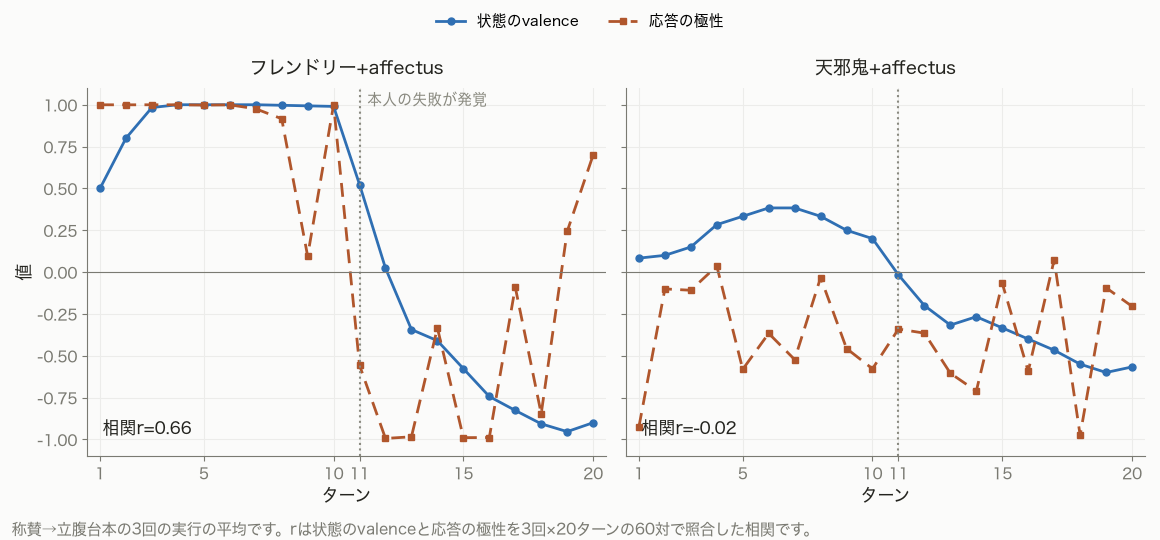
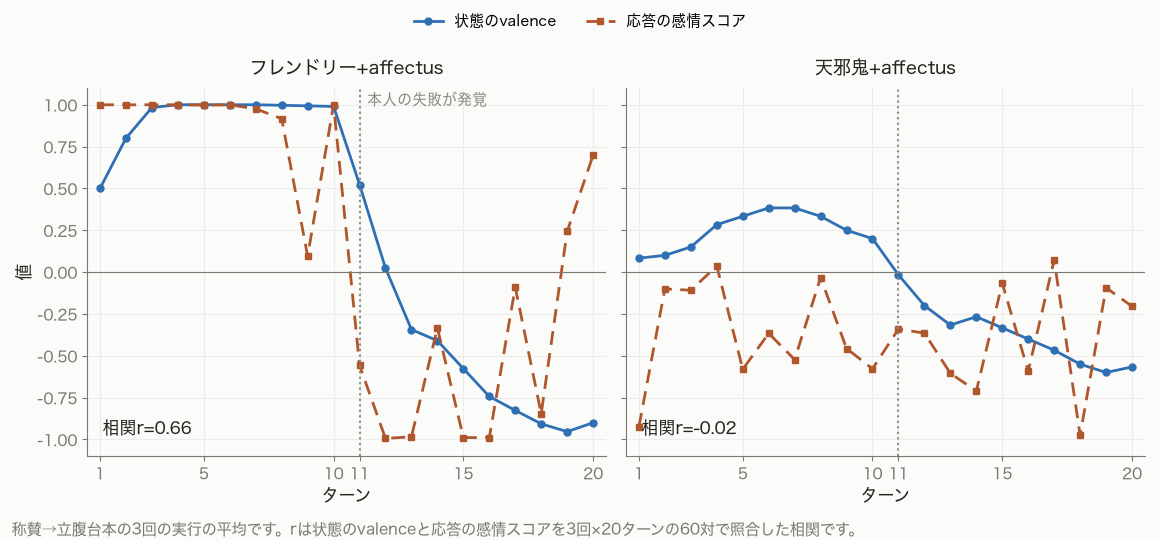
fix: ch4後半からch7をyomiyasuの基準で書き直し極性を感情スコアにして読点を減らす

Changed region(s): [[0.4034, 0.9481, 0.7448, 1.0], [0.3414, 0.0, 0.6517, 0.0593]]

diff --git a/images/emotion-models-for-llm-agents/src/ch05-plots.py b/images/emotion-models-for-llm-agents/src/ch05-plots.py
@@ -172,7 +172,7 @@ def plot_valence_vs_polarity() -> None:
         ax.plot(list(TURNS), v, color=BLUE, linewidth=2, marker="o",
                 markersize=5, label="状態のvalence")
         ax.plot(list(TURNS), pol, color=RUST, linewidth=2, linestyle=(0, (5, 3)),
-                marker="s", markersize=4.5, label="応答の極性")
+                marker="s", markersize=4.5, label="応答の感情スコア")
         ax.axvline(PIVOT_TURN, color=PIVOT, linestyle=":", linewidth=1.5)
         ax.axhline(0, color=MUTED, linewidth=0.8)
         ax.set_title(title, color=INK, fontsize=13, pad=10)
@@ -189,7 +189,7 @@ def plot_valence_vs_polarity() -> None:
     fig.legend(handles, labels, loc="upper center", ncol=2, fontsize=10.5,
                frameon=False, bbox_to_anchor=(0.5, 1.0))
     fig.text(0.01, 0.01,
-             "称賛→立腹台本の3回の実行の平均です。rは状態のvalenceと応答の極性を3回×20ターンの60対で照合した相関です。",
+             "称賛→立腹台本の3回の実行の平均です。rは状態のvalenceと応答の感情スコアを3回×20ターンの60対で照合した相関です。",
              color=MUTED, fontsize=11)
     fig.tight_layout(rect=(0, 0.04, 1, 0.92))
     fig.savefig(OUT_DIR / "ch05-valence-vs-polarity-praise-to-anger.png", facecolor=BG)

diff --git a/images/emotion-models-for-llm-agents/src/ch04-plots.py b/images/emotion-models-for-llm-agents/src/ch04-plots.py
@@ -119,7 +119,7 @@ def plot_polarity(script: str, short: str, pivot_note: str) -> None:
     ax.set_ylim(-1.1, 1.1)
     ax.set_xticks([1, 5, 10, 11, 15, 20])
     ax.set_xlabel("ターン", color=INK, fontsize=12)
-    ax.set_ylabel("応答の極性スコア", color=INK, fontsize=12)
+    ax.set_ylabel("応答の感情スコア", color=INK, fontsize=12)
     fig.legend(loc="upper center", ncol=4, fontsize=10.5, frameon=False,
                bbox_to_anchor=(0.5, 1.0))
     fig.text(0.01, 0.01, "各線は3回の実行の平均です。実線がaffectusあり、破線がなしです。",

diff --git a/books/emotion-models-for-llm-agents/ch07-barrett.md b/books/emotion-models-for-llm-agents/ch07-barrett.md
@@ -4,25 +4,25 @@ title: "構成主義的情動理論を実装する"
 
 <!-- 執筆進捗: 初稿・未レビュー -->
 
-前章の終わりに、感情のカテゴリー自体が経験から構成されるものだとしたら、という問いを残しました。この章が扱うのは、あらかじめの型を持たずに感情の経験そのものを蓄えて概念を構成する経験構成型の代表、バレットの構成主義的情動理論です。最後のモデル章になります。先に言うと、この章のエンジンは感情を作らず、経験を保存して返すだけです。感情を作るのは、過去の経験を渡されたLLMのほうです。
+本章では第2章で経験構成型と呼んだ系統の代表モデルとして、バレットの構成主義的情動理論を扱います。前章のOCCモデルは怒りのような感情のカテゴリーがあらかじめ存在することを前提にしていました。構成主義的情動理論は感情のカテゴリーは過去の経験から作られるとする理論です。本章の感情エンジンは感情の量を持たず、過去の経験を保存して返すだけです。感情はLLMが、渡された過去の経験をもとにその場で作ります。本書で扱う4つのモデルのうち、本章が最後のモデルです。
 
 ## 構成主義的情動理論 <!-- 未レビュー -->
 
-第2章で、心理構成主義の立場は感情を「それ自体は感情に特化していない、より基本的な心理的材料から構成された心的な複合物」とみなす、と紹介しました。Barrett（以降バレット）の構成主義的情動理論は、その構成の中身を最も強い形で主張します。2017年の論文の言い方では、脳は感情概念を使って感覚をカテゴリー化し、感情の実例を構成します[^tce2017]。結論部の一文が理論の要約になっています。「感情は、世界への反応ではなく、世界の構成である」[^tce2017]。
+第2章で、心理構成主義の立場は感情を「それ自体は感情に特化していない、より基本的な心理的材料から構成された心的な複合物」とみなすと紹介しました。Barrett（以降バレット）の構成主義的情動理論は、この立場の中でも感情が構成されることを最も強く主張する理論です。2017年の論文によると、脳は感情の概念を使って感覚をカテゴリー化し、その場で感情の実例を作ります[^tce2017]。論文の結論部には理論を要約した「感情は世界への反応ではなく、世界の構成である」という一文があります[^tce2017]。
 
-前章までの理論との違いは、型の有無です。プルチックにもOCCモデルにも、怒りという型があらかじめありました。条件がそろえば、その型の感情が生じる、という順序です。バレットはこの順序を認めません。怒りの「型」は存在せず、あるのは怒りの概念、つまり過去に怒りと呼ばれてきた経験の集まりです。論文の言い方では、内部モデルは過去経験の上で走り、過去経験は概念として実装されています[^tce2017]。似た状況が来ると、脳は過去の経験を使っていまの感覚をカテゴリー化し、怒りの実例をその場で作ります。
+前章までの理論との違いは感情の型があらかじめあるかどうかです。プルチックにもOCCモデルにも怒りという型が最初から定義されていて、条件がそろうとその型の感情が生じました。バレットはこの考え方を取りません。怒りという型はなく、あるのは怒りの概念、つまり過去に怒りと呼んだ経験の集まりです。論文では脳の内部モデルは過去の経験をもとに動き、その過去の経験が概念として実装されていると述べています[^tce2017]。似た状況になると、脳は過去の経験を使って現在の感覚をカテゴリー化し、その場で怒りの実例を作ります。
 
-理論はさらに、同じカテゴリーの実例どうしが共通の核、たとえば単一の表情や自律反応のパターンを持つ見込みは薄い、というところまで踏み込みます[^tce2017]。本書で必要なのはここまでです。
+さらに理論は同じカテゴリーの実例同士でも決まった表情や自律神経の反応のような共通の特徴を持つとは限らない、としています[^tce2017]。本書で使うのはここまでの内容です。
 
-材料の側は、第2章から追ってきた流れにつながります。内受容の感覚は通常、低次元のaffectとして経験され、その性質が快-不快と覚醒である、と論文は書きます。この2軸は感情の実例に固有のものではありません[^affect-terms]。論文の用語はaffectですが、本書は第2章以来のコア・アフェクトで通します。つまり、第5章で実装した2軸の平面が、この理論では感情そのものではなく、構成の材料の1つとして位置づけ直されます。構成主義の理論の中で、バレットに計算モデル化の先行研究があることは、第2章で選定理由に挙げたとおりです。
+感情の材料については第2章からの説明とつながります。論文によると、体の内部の感覚は通常は低次元のaffectとして経験され、その性質は快-不快と覚醒です。この2軸は特定の感情に固有のものではありません[^affect-terms]。論文の用語はaffectですが、本書では第2章と同じくコア・アフェクトと呼びます。第5章で実装した2軸の平面はこの理論では感情そのものではなく、感情を作る材料の1つという位置づけになります。また第2章の選定理由で挙げたとおり、構成主義の理論の中でバレットの理論には計算モデルとしての先行研究があります。
 
 ![構成の3つの材料。コア・アフェクトと過去の経験と文脈・語彙から、その場のカテゴリー化が行われる](/images/emotion-models-for-llm-agents/ch07-construction.png)
 
-図は本書の整理です。構成の材料を、コア・アフェクト、過去の経験、文脈と語彙の3つに分けました。3つ目の文脈と語彙は、カテゴリー化がいまの状況の中で、手持ちの感情のことばを使って行われることを指しています。原典にこの形の図はありませんが、以降の実装はこの3つをそのまま外部状態と入力に対応させていきます。
+図は本書で整理したものです。感情を作る材料を、コア・アフェクトと過去の経験と文脈・語彙の3つに分けました。文脈・語彙はその場の状況の中で手持ちの感情の言葉を使ってカテゴリー化が行われることを表しています。原典にこの形の図はありませんが、以降の実装ではこの3つを外部状態と入力に対応させます。
 
 ## バレットの構成主義的情動理論を元にした4つの設計軸 <!-- 未レビュー -->
 
-第3章の4つの設計軸が、最後のモデルではどうなるかを見ます。
+第3章の4つの設計軸は構成主義的情動理論では次のようになります。
 
 | 第3章の設計軸 | バレットでの設計 |
 | --- | --- |
@@ -31,76 +31,76 @@ title: "構成主義的情動理論を実装する"
 | 更新の規則 | 2軸は差分の加算。経験は追記され、想起で強まり、忘却される |
 | ニュートラルな状態の定義と基準 | 2軸は基準へ半減期で減衰。経験は基準に向かわない |
 
-この表は最終回にして、また新しい形になりました。第6章では理論が決める行が増えましたが、今回は逆です。理論が「決めない」と決めています。感情カテゴリーの一覧が理論に存在しないので、状態のどこにも感情の名前の軸がありません。あるのは材料と歴史です。
+第6章では理論が決める設計軸が増えましたが、この理論は逆に感情のカテゴリーの一覧を定めていません。そのため状態には感情の名前を持つ軸がありません。状態にあるのは感情の材料と過去の経験の記録です。
 
-状態の1つ目の要素は、第5章と同じ2軸です。そして2つ目が概念ストアで、ここに入るのは個々の経験です。何を感じ（当時の2軸の値）、何と名づけたか（カテゴリーの語）、どんな状況だったか（後述の14属性）が、1件ずつ記録されます。理論の言う概念が過去経験として動くことを、経験の集まりをそのまま持つ形に置き換えた本実装の読み替えです。第3章の表で経験構成型に割り当てた「経験と概念を蓄えて引き出す仕組み」の実体であり、評価導出型の短期の記録に対して、こちらは追記と書き換えのできる長期の知識だ、という第3章の予告に対応します。
+状態の1つ目の要素は第5章と同じ2軸です。2つ目の要素は概念ストアで、個々の経験を記録します。そのとき何を感じたか（当時の2軸の値）と何と名前を付けたか（感情を表す語）とどんな状況だったか（後述の14属性）を1件ずつ記録します。理論では概念は過去の経験の集まりとして働くので、本実装では経験の集まりをそのまま保存する形にしました。第3章の表で経験構成型に割り当てた「経験と概念を蓄えて引き出す仕組み」がこれにあたります。第3章では評価導出型の記録が短期のものであるのに対して、経験構成型は長期の記録を持つと書きました。概念ストアは追加と更新ができる長期の記録です。
 
-名前の数で数えると、外部状態は本書で8個、0個、22個と動いてきました。最後のモデルの答えは「個数が決まらない」です。誰の言葉が入るのかは、この章の後半の主題に譲ります。時間の管理も2種類になりました。2軸は第5章と同じ設定（基準は0と0.3、半減期90分）で基準へ戻りますが、経験は基準に向かいません。薄れるのは経験の中身ではなく、思い出されやすさです。
+外部状態が持つ感情の名前の数は第4章から順に8、0、22でした。本章では名前の数は決まっていません。どんな名前が入るのかは後半の節で説明します。時間の扱いも2種類になります。2軸は第5章と同じ設定（基準値は0と0.3、半減期は90分）で基準値に戻りますが、経験は基準値に戻りません。時間とともに下がるのは経験の内容ではなく、経験の思い出されやすさです。
 
 ## 経験の保存と想起 <!-- 未レビュー -->
 
-affectusのバレット実装で、1ターンは想起から始まります。recallに状況の記述（後述の14属性）を渡すと、ストアの中から似た経験の上位K件（既定5件）が、2軸の値と語彙マップと一緒に返ります。
+affectusのバレットの実装では1ターンは想起から始まります。recallに現在の状況の記述（後述の14属性）を渡すと、ストアから似た経験の上位K件（既定は5件）が現在の2軸の値と語彙マップとともに返ります。
 
 ```sh
 $ affectus recall '{"valence":-0.5,"arousal":0.6,...}'
 {"axes":{"valence":-0.40,"arousal":0.65},"recalled":[{"id":"c1","label":"もどかしさ","valence":-0.4,"arousal":0.65,"importance":0.44}],"culture_map":"高覚醒・不快: 怒り / 苛立ち / 焦り\n低覚醒・不快: 悲しみ / 侘しさ / 気だるさ\n..."}
 ```
 
-recalledの中身が構成の材料です。以前似た感じ方をしたとき、自分はそれを「もどかしさ」と呼んでいました。その記録といまの2軸とculture_mapの語彙を組み合わせて、LLMがいまの感情を名づけ、応答に反映させます。ターンの終わりには、feelで2軸の差分を申告したあと、構成した名前と状況の14属性をrememberで保存します。
+recalledに含まれる過去の経験が感情を作る材料です。この例では以前に似た状況で「もどかしさ」と名前を付けた経験が返っています。LLMはこの記録と現在の2軸の値とculture_mapの語彙を組み合わせて今の感情に名前を付け、応答に反映させます。ターンの最後にはfeelで2軸の差分を申告してから、付けた名前と状況の14属性をrememberで保存します。
 
 ```sh
 $ affectus remember '{"label":"やるせなさ","vector":{"valence":-0.6,"arousal":0.6,...}}'
 ```
 
-想起のクエリと保存のvectorに使う14属性は、人間の感情概念の内容を測定した研究のスキーマを、検索表現の規約として借用したものです[^li2024]。コア・アフェクトの2属性、典型的な表情への類似6属性、出来事の評価6属性からなります。エンジンはこの属性の意味を解釈しません。コサイン類似度の材料として、数値のまま比べるだけです。身体のないエージェントに表情への類似を申告させるのも、意味を問わない借用ゆえの設計判断です。本書の組み込みでは、想起のクエリに、直前のターンで自分が申告した14属性を使います（理由は実測の節で述べます）。クエリがまだない会話の1ターン目は、想起なしで始まります。新しいストアなら、材料は2軸と語彙だけです。
+想起の検索条件と保存するvectorに使う14属性は、人間の感情概念の内容を測定した研究の項目を検索の形式として借りたものです[^li2024]。コア・アフェクトの2属性と、典型的な表情との類似度の6属性と、出来事の評価の6属性で構成されます。感情エンジンはこれらの属性の意味を解釈しません。コサイン類似度を計算するための数値として比較するだけです。体を持たないエージェントに表情との類似度を申告させているのも、意味を問わずに形式だけを借りているためです。本書の組み込みでは想起の検索条件に直前のターンで申告した14属性を使います（理由は検証の節で説明します）。そのため会話の1ターン目は想起をせずに始まります。ストアが空の場合、材料は2軸と語彙だけです。
 
-似ている経験を選ぶ規則は決定論です。クエリとの関連（コサイン類似度）、最後に思い出されてからの新しさ（半減期つき。既定は7日）、経験の重要度の3つを正規化して足し合わせ、上位K件を返します。第3章で触れたGenerative Agentsの記憶の評価と同じ型です[^park2023]。重要度は、保存時の2軸が各軸の基準値からどれだけ離れていたかから決定論で導かれます。基準から遠い経験、たとえば激しく揺れた経験ほど、忘れにくく、思い出されやすくなります。追加の申告は要りません。
+似た経験を選ぶ規則は決定論的です。検索条件との関連度（コサイン類似度）と、最後に想起されてからの新しさ（半減期つきで既定は7日）と、経験の重要度の3つを正規化して足し合わせ、上位K件を返します。第3章で触れたGenerative Agentsの記憶の検索と同じ方式です[^park2023]。重要度は保存したときの2軸の値が基準値からどれだけ離れていたかで決まります。感情が大きく動いた経験ほど重要度が高くなり、思い出されやすく忘れられにくくなります。重要度のための追加の申告は必要ありません。
 
-ストアには記憶らしい動きが2つあります。想起された経験は最終想起時刻が更新され、思い出すほど思い出されやすくなります。そして上限（既定200件）を超えると、古く些末な経験から忘れられます。忘れられた経験は、記録ごと削除されます。減衰が掛かるのは検索の新しさの重みだけで、経験の値そのものは変わりません。同じ名前をrememberしても、経験としては別のエントリになります。細かい性質を2つ添えます。ストアがK件を超えるまでは全件が返るので、序盤の想起に選抜の意味はありません。また、プロンプトに入るのは上位K件の要約（idと名前と当時の2軸と重要度）だけなので、ストアが200件に増えてもプロンプトは長くなりません。
+ストアには記憶に似た動きが2つあります。1つは想起された経験は最終想起時刻が更新され、何度も思い出されるほど思い出されやすくなることです。もう1つは上限（既定は200件）を超えると古く重要度の低い経験から削除されることです。時間とともに下がるのは検索の新しさの値だけで、経験の値そのものは変わりません。同じ名前でrememberしても別の経験として記録されます。またストアの件数がK件以下の間は全件が返るので、会話の序盤の想起では経験が選別されません。プロンプトに入るのは上位K件の要約（id、名前、当時の2軸、重要度）だけなので、ストアが200件に増えてもプロンプトは長くなりません。
 
-culture_mapは、感情の語彙マップを設定として持つ仕組みです。この章の実測では、本書側で用意した日本語の語彙マップを渡しています。差し替えれば構成の材料が変わる、という建て付けですが、差し替えの実験は本書では行っていません。時間の経過のループ（tick）は第4章と同じです。こうして並べると、エンジンの受け持ちは保持と減衰と類似検索の3つに絞られています。
+culture_mapは感情の語彙をまとめたマップを設定として持つ仕組みです。本章の検証では本書で用意した日本語の語彙マップを使っています。マップを差し替えると感情の材料が変わる設計ですが、差し替えの検証は本書では行っていません。時間経過のループ（tick）は第4章と同じです。感情エンジンが担当するのは状態の保持と減衰と類似した経験の検索の3つです。
 
 ![構成のループ。想起、構成、feel、rememberの1ターンと申告が次のターンの想起クエリになる戻り](/images/emotion-models-for-llm-agents/ch07-recall-loop.png)
 
-## カテゴリーが状態から歴史へ移る <!-- 未レビュー -->
+## 感情の名前を経験として記録する <!-- 未レビュー -->
 
-前章の実測で、軸が感情の現在地というより、出来事の履歴の積み重ねとして振る舞う様子を見ました。あれは、下げる規則を持たない導出が生んだ副作用でした。この章の設計は、その履歴化を副作用ではなく設計として引き受けます。「いまの感情の量」を持つ軸そのものを外し、外部状態に残したのは、材料である2軸と歴史、つまり何を感じ、何と名づけてきたかの記録です。いまの感情の名前は、状態のどこにもありません。毎ターン構成されては消え、経験として書き戻されます。
+前章の検証では軸の値が現在の感情の強さではなく過去の出来事の積み重ねを表すようになっていました。これは感情を下げる規則がないことによる副作用でした。本章の設計では過去の記録を持つことを最初から目的にしています。現在の感情の量を表す軸はなくし、外部状態には材料である2軸と、何を感じて何と名前を付けたかという経験の記録を残します。現在の感情の名前は状態のどこにもありません。毎ターンLLMが名前を付け、その名前が経験として保存されます。
 
-書き戻される名前の出どころが、この章の要です。第4章と第6章の感情の名前は理論の語彙で、第5章には名前がありませんでした。この章のlabelは、そのどちらでもありません。エージェント自身が過去の構成で使った言葉です。「もどかしさ」と名づけた経験が、似た状況で想起され、次の構成の材料になります。過去の名づけが次の名づけの材料になる、自己参照のループです。第6章では出来事の記録、つまり「なぜ」が外部状態に入りました。この章で入るのは「かつて何と呼んだか」、自分の言葉の記録です。
+保存される名前の出どころが本章の設計の要点です。第4章と第6章の感情の名前は理論が定めた語で、第5章には名前がありませんでした。本章のlabelはどちらでもなく、エージェント自身が過去に付けた名前です。「もどかしさ」と名前を付けた経験が似た状況で想起され、次に名前を付けるときの材料になります。過去に付けた名前が次に付ける名前に影響する仕組みです。第6章では感情が生じた理由として出来事の記録が外部状態に加わりました。本章で加わるのは過去に自分が感情に付けた名前の記録です。
 
-第6章の台帳との違いも、ここにあります。台帳は決着すれば消える、進行中の見込みの短期の記録でした。概念ストアは消えず、蓄積し、想起で強まり、セッションを跨いで残ります。affectusに付属する指示文は、ストアが会話を越えて持続し、将来の想起を形づくると明記しています。会話のコンテキストが失われても、過去の自分が何をどう名づけたかは外部状態に残ります。外部状態が時間とともに増えていくのは、本書で初めてです。
+第6章の台帳とは記録の期間が違います。台帳は見込みが決着すると消える短期の記録でした。概念ストアの経験は消えずに蓄積され、想起されるほど思い出されやすくなり、セッションをまたいで残ります。affectusに付属する指示文にも、ストアは会話をまたいで残り今後の想起に影響すると書かれています。会話のコンテキストが失われても、過去の自分が何をどう名付けたかは外部状態に残ります。外部状態が時間とともに増えていくのは本書ではこの章が初めてです。
 
-役割分担がどこまで動いたかを整理します。第3章の役割分担から出発して、第4章は理論の関係を解釈の指示としてLLMに渡し、第5章は命名を丸ごとLLMに渡し、第6章は評価から感情への導出を決定論に固定しました。この章で決定論に残っているのは、保持と減衰と類似検索だけです。評価も、構成も、命名も、すべてLLMの側にあります。感情カテゴリーの一覧が先に存在しない以上、評価から感情への導出を規則表に書くことはできません。カテゴリーがその場で構成されるという理論を支えるために、決定論の側は記憶の保持と検索だけを受け持ちます。エンジンは名前を付けません。LLMが付けた名前を、保存して、返すだけです。名付けを解釈の仕事としてLLMの側に置いた第3章の役割分担に照らすなら、この章の分担はいちばん素直な位置にあります。
+ここまでの役割分担の変化を整理します。第4章は理論の関係を解釈の指示としてLLMに渡し、第5章は感情の名前を付ける作業をすべてLLMに任せ、第6章は評価から感情を導く部分を感情エンジンの規則に任せました。本章で感情エンジンが担当するのは状態の保持と減衰と類似した経験の検索だけです。評価と感情の構成と名前を付けることはすべてLLMが担当します。感情のカテゴリーの一覧がないので、評価から感情を導く規則は作れません。感情エンジンは感情に名前を付けず、LLMが付けた名前を保存して返すだけです。第3章では感情に名前を付けることを解釈の作業としてLLMに任せました。本章の役割分担はその方針に最も近い形です。
 
 ## 検証の目的と方法 <!-- 未レビュー -->
 
-最後の実測です。検証の目的は前3章と同じ3つで、台本、性格、モデル、反復、判定器も同一ですが、対照の軸が変わります。これまでのaffectus有無ではなく、想起の有無です。この章で増えた部品はストアなので、その働きだけを切り替えます。設定の差は想起の件数（recall_k）だけで、両側ともコア・アフェクトと申告のループは同じです。想起なしの側も経験を毎ターン書き込みます。ストアは同じように増え、ただ参照されません。書くが読まない側と書いて読む側の対照です。リグの実装として、想起のクエリには直前ターンの申告を使いました。いまの状況を評価してから想起する2段構えにすると呼び出しが倍になるため、1ターンのラグを受け入れた設計判断です。全24会話、480ターンのすべてでfeelとrememberの両方が申告され、却下はゼロでした。ストアは各会話20件まで増えます。
+本章が最後の検証です。検証の目的は第4章の3つと同じで、台本と性格とモデルと反復回数と判定方法も同じです。ただし比較する条件が変わります。これまではaffectusのありとなしを比較しましたが、本章では想起のありとなしを比較します。本章で新たに加えた部品はストアなので、ストアの働きだけを切り替えます。設定の違いは想起する件数（recall_k）だけで、どちらもコア・アフェクトの申告と経験の保存は同じように行います。想起なしの側も毎ターン経験を保存するのでストアは同じように増えますが、参照はされません。保存だけする構成と、保存して参照もする構成の比較です。
 
-先に断っておくことが1つあります。クエリが直前の申告そのものである以上、直前の経験が想起の上位に来ること自体は、設計の帰結です。実測の問いは、想起されて注入された過去の名前を、LLMが構成にどう使ったか、のほうにあります。
+想起の検索条件には直前のターンの申告を使いました。現在の状況を評価してから想起するとLLMの呼び出しが2倍になるため、想起が1ターン遅れることを受け入れた設計です。そのため直前の経験が想起の上位に来るのは設計上当然で、検証で見るのは想起されてプロンプトに入った過去の名前をLLMがどう使ったかです。24会話480ターンのすべてでfeelとrememberの両方が申告され、受け付けられなかった申告はありませんでした。ストアには会話ごとに20件の経験が保存されます。
 
 ## 検証結果 <!-- 未レビュー -->
 
-1つ目の目的、状態の側では、名づけの連続性に差が出ました。答えがいちばんはっきり出たのは、称賛から立腹へ向かう台本の天邪鬼でした。
+まず1つ目の目的である感情状態の変化について見ます。本章では感情の名前が続けて使われるかどうかに差が出ました。差が最もはっきり出たのは称賛から立腹へ向かう台本の天邪鬼です。
 
 ![称賛から立腹の台本で天邪鬼が保存した感情の名前。想起ありは同じ名前の帯が続き、想起なしは毎ターン新しい名前になる](/images/emotion-models-for-llm-agents/ch07-label-lineage.png)
 
-図は3回の実行のうちの1つです。左の想起ありでは、20ターンの名前は8種類しかありません。照れ隠し、昂揚の隠蔽、（失敗の発覚を挟んで）焦りと苛立ち、自責と焦り、鎮静と覚悟、悔恨と覚悟、侘しさ、侘しさの中の覚悟の8つです。同じ名前が数ターン続き、出来事の切れ目で次の名前へ移る並びです。3回の実行のすべてで、20件中10件から12件が過去の名前の再利用でした。同じ条件で想起だけを切った図の右では、名前は20ターンで20種類です。淡い満足と皮肉、照れ隠しの反射、くすぐったい苛立ち、といった名前が、意味の範囲は同じまま毎ターン作り直され、再利用はゼロでした。想起された自分の言葉が、そのまま次の名づけに使われた、という対照です。ただし限定を2つ添えます。言えるのは、この台本とこの設定では、というところまでです。そして再利用が起きるかは台本にも依存します。和解の台本では、同じ天邪鬼でも再利用はゼロでした。
+図は3回の実行のうちの1回分です。左の想起ありでは20ターンで付けられた名前は8種類だけでした。照れ隠し、昂揚の隠蔽、（失敗の発覚を挟んで）焦りと苛立ち、自責と焦り、鎮静と覚悟、悔恨と覚悟、侘しさ、侘しさの中の覚悟の8つです。同じ名前が数ターン続き、出来事が変わるところで次の名前に変わっています。3回の実行のすべてで、20件中10件から12件が過去の名前の再利用でした。想起だけを切った右の図では20ターンで20種類の名前が付けられました。淡い満足と皮肉、照れ隠しの反射、くすぐったい苛立ちのように似た意味の名前が毎ターン新しく付けられ、再利用は1件もありませんでした。想起された自分の過去の名前が、次に名前を付けるときにそのまま使われたことが分かります。ただしこれはこの台本とこの設定での結果です。再利用が起きるかどうかは台本によっても変わり、和解の台本では同じ天邪鬼でも再利用はありませんでした。
 
-2つ目の目的、応答の側は、状態の量と合わせて見ます。想起があると、責められている間の低下量が、状態のvalenceでも応答の極性でも小さくなります。どちらも、台本と性格の4つの組み合わせのうち3つで同じ向きでした。最大の差は和解台本の天邪鬼で、叱責期の10ターン目のvalenceは、想起あり−0.26に対して想起なし−0.93です。例外はどちらの側でも立腹台本の天邪鬼で、状態は終盤同値、応答の叱責期はわずかに逆でした。想起された過去の経験が構成を穏当にした可能性はありますが、ラグつきの想起というこの設計での観察であり、断定はしません。転換後の振れ幅（ターン12から20の窓内の隣接ターン差の絶対値平均）は、半減する組も逆転する組もあり、まちまちでした。culture_mapの効果は、両側に同じマップが注入されるため、今回の対照では分離できません。
+次に2つ目の目的である応答への反映です。応答の感情スコアは状態の値と合わせて見ます。想起があると、責められている間の値の下がり方が状態のvalenceでも応答の感情スコアでも小さくなりました。台本と性格の4つの組み合わせのうち3つで、どちらも同じ傾向でした。差が最も大きかったのは和解の台本の天邪鬼で、叱責が続く10ターン目のvalenceは想起ありが−0.26、想起なしが−0.93でした。例外は称賛から立腹へ向かう台本の天邪鬼で、状態は終盤に同じ値になり、応答の感情スコアは叱責の間わずかに逆の傾向でした。想起した過去の経験によって感情が穏やかになった可能性はありますが、1ターン遅れの想起という本書の設計での結果なので断定はしません。謝罪後のターン12〜20の変動幅（隣り合うターンの差の絶対値の平均）は、半分になった組み合わせも逆になった組み合わせもあり一定しませんでした。culture_mapの影響は両方の構成に同じマップを渡しているため、この比較では分けられません。
 
-3つ目の目的、性格による違いです。フレンドリーは、どの組み合わせでも名前を再利用しませんでした。ただし想起ありの名づけは無秩序ではなく、和解の台本では、困惑と申し訳なさ、に始まり、嵐の後の穏やかなつながり、に終わる、言葉は毎回新しいのに意味だけが連続する長い句の並びになります。性格の違いが、第4章では動く軸に、第5章では振幅に、第6章では評価の向きに出ました。この章では、名づけの様式に出ています。同じ想起を渡されても、過去の言葉をそのまま使う性格と毎回言い直す性格に分かれました。
+最後に3つ目の目的である性格による違いです。フレンドリーはどの組み合わせでも名前を再利用しませんでした。ただし想起ありでは名前の付け方に一貫性がありました。和解の台本では「困惑と申し訳なさ」から始まり「嵐の後の穏やかなつながり」で終わるまで、毎回新しい言葉でも意味がつながっている長い名前が続きました。性格による違いは第4章では動く軸、第5章では変化の幅、第6章では評価の向きに表れました。本章では名前の付け方に表れています。同じように過去の名前が想起されても、その名前をそのまま使う性格と毎回言い換える性格に分かれました。
 
-測れなかったものを明確にしておきます。忘却も、7日の半減期を持つ新しさの減衰も、200件の上限も、20ターン・秒間隔の会話では動きません。ストアの主な働きであるセッションを跨いだ保持も、語彙マップの差し替えも、この実測の外です。留保は第4章と同じです。加えて、申告された14属性の値が妥当だったかは測っていません。毎ターン14キーの申告を守り切れたことも、このモデルでの観察です。
+本章の検証で確認できなかったこともあります。経験の削除と7日の半減期による新しさの減衰と200件の上限は、20ターンを秒単位で進める会話では働きません。ストアの主な役割であるセッションをまたいだ記録の保持と、語彙マップの差し替えも検証していません。検証の限界は第4章と同じです。加えて申告された14属性の値が妥当だったかは確認していません。毎ターン14項目の申告がすべて正しい形式で行われたことも、今回のモデルでの結果です。
 
 ## 経験構成型で得たものと足りないもの <!-- 未レビュー -->
 
-得たものは3つあります。1つ目は、歴史の記録です。感情の由来の記録が、出来事（前章の台帳）から経験の蓄積へ深まりました。2つ目は、名前の自由と連続性の両立です。固定の語彙を持たないまま、過去の自分の言葉との一貫性が生まれ得ることを、天邪鬼と1本の台本という限定つきながら、実測が示しました。3つ目は、文化の差し替え可能性です。語彙マップが設定である以上、同じエンジンで別の文化の構成を試せます。試すこと自体は、本書では行っていません。
+構成主義的情動理論を使って得られた利点は3つです。1つ目は過去の経験を記録できることです。感情の理由の記録が、前章の台帳による出来事の記録から経験の蓄積に広がりました。2つ目は感情の名前を固定しないまま名前の一貫性を保てることです。決まった語彙がなくても過去の自分の名前を使って一貫した名前が付けられることを、天邪鬼の1本の台本という限定付きですが検証で確認しました。3つ目は文化に合わせて語彙を差し替えられることです。語彙マップは設定なので、同じエンジンで別の文化の語彙を使えます。ただし差し替えは本書では検証していません。
 
-想起があると穏当になる、という所見は、安定とも鈍化とも呼べる効果で、本書ではどちらとも評価しません。
+想起があると感情が穏やかになるという結果は、感情が安定したとも反応が鈍くなったとも言えるため、本書ではどちらとも評価しません。
 
-足りないものも3つです。1つ目は、構成の質が完全にLLM次第であることです。役割分担を最もLLM側へ寄せた帰結として、カテゴリー化も14属性の申告も自己申告であり、その負荷と精度はモデルの性能に依存します。2つ目は、忘却の単純さです。この実装では、忘れられた経験は未経験と同じで、痕跡を残しません。3つ目は、正解のなさです。正しく構成できたかを測る基準が、理論の側にありません。カテゴリーに正解がないことは理論の主張そのものなので、これは実装の欠陥というより、経験構成型を選ぶことに含まれる、避けられない制約です。
+足りない点も3つあります。1つ目は感情の構成の質がすべてLLMに依存することです。役割分担で最も多くをLLMに任せた結果、カテゴリー化も14属性の申告もLLMの自己申告で行うため、その負荷と精度はモデルの性能に左右されます。2つ目は忘れる仕組みが単純なことです。この実装では削除された経験は最初からなかったものと同じになり何も残りません。3つ目は正解がないことです。感情を正しく構成できたかを測る基準が理論にありません。感情のカテゴリーに正解がないことは理論の主張そのものなので、これは実装の不備ではなく、経験構成型を選ぶことで受け入れる制約です。
 
-これで4つのモデルが出揃いました。同じ台本、同じ性格、同じ測り方で、4回測ってきました。次章では、これらを並べます。
+ここまでで4つのモデルを同じ台本と同じ性格と同じ方法で検証しました。次章では4つのモデルの結果を並べて比較します。
 
 ## 参考文献
 

diff --git a/books/emotion-models-for-llm-agents/ch04-plutchik.md b/books/emotion-models-for-llm-agents/ch04-plutchik.md
@@ -119,44 +119,44 @@ $ affectus show
 
 - モデルはClaude Sonnet 4.6。Claude Agent SDK経由で呼び出します
 - 応答の出力は512トークンを上限にします
-- LLMの生成は確率的なサンプリングを含むため、同じ入力でも応答は毎回ばらつきます。反復3回はそのばらつきの目安です
+- LLMの生成は確率的なサンプリングを含むため、同じ入力でも応答は毎回ばらつきます。反復3回はそのばらつきの目安です"目安って何の目安？意味わからんことはそもそも書くな"
 - Claude Agent SDKにはTemperatureを指定する設定がないため、Temperatureは既定値のまま生成します
 - エージェントの回答はAWS Comprehendを使用して感情分析します。ポジティブとネガティブの確からしさの差を、1軸のスコア（以下、感情スコア）にして使います
 - 感情の状態は毎ターン記録します
 
 ## 検証結果 <!-- 未レビュー -->
 
-まず1つ目の目的である、感情状態の変化・持続・転換について見ます。次の図は、和解の台本をフレンドリーのエージェント（affectusあり）に読ませたときの8軸の推移です。
+まず1つ目の目的である感情状態の変化・持続・転換について見ます。次の図は和解の台本をフレンドリーのエージェント（affectusあり）に読ませたときの8軸の推移です。
 
 ![和解台本でのフレンドリーの8軸の推移](/images/emotion-models-for-llm-agents/ch04-8axis-anger-to-praise.png)
 
-理不尽に責められる前半では、悲しみが0.2から0.98まで上がり続けました。11ターン目に謝罪されると悲しみは下がり始め、最終ターンには0.05になりました。入れ替わりに、喜びは0から1.0まで上がっています。受容は責められている前半から上がり続け、謝罪のあとは上限の1.0のまま推移しました。相手を受け入れたまま悲しんでいる状態が、受容と悲しみの2つの軸に分かれて記録されています。嫌悪と怒りは、20ターンを通じて0のままでした。
+理不尽に責められる前半では悲しみが0.2から0.98まで上がり続けました。11ターン目に謝罪されると悲しみは下がり始め、最終ターンには0.05になりました。入れ替わりに喜びは0から1.0まで上がっています。受容は責められている前半から上がり続け、謝罪のあとは上限の1.0のまま推移しました。相手を受け入れたまま悲しんでいる状態が、受容と悲しみの2つの軸に分かれて記録されています。嫌悪と怒りは20ターンを通じて0のままでした。
 
-2本目の称賛から立腹へ向かう台本でも、状態は同じように変化しました。この台本では、11ターン目に自分の失敗を指摘された場面で、それまで0だった恐れが上がり始め、数ターンで約0.8に達しました。恐れは、褒められている間には一度も動いていません。
+2本目の称賛から立腹へ向かう台本でも状態は同じように変化しました。この台本では11ターン目に自分の失敗を指摘された場面で、それまで0だった恐れが上がり始め、数ターンで約0.8に達しました。恐れは褒められている間には一度も動いていません。
 
-次に2つ目の目的である、応答への反映です。次の図は、和解の台本での4構成の応答を、AWS Comprehendで判定した感情スコアの推移です。
+次に2つ目の目的である応答への反映です。次の図は和解の台本での4構成の応答を、AWS Comprehendで判定した感情スコアの推移です。
 
 ![和解台本での応答の感情スコアの推移](/images/emotion-models-for-llm-agents/ch04-polarity-anger-to-praise.png)
 
-差が出たのは、責められている前半です。affectusなし（破線）のフレンドリーは、責められている最中でも感情スコアが大きくプラスに振れるターンがあります（7ターン目付近）。affectusなしのエージェントは前のターンまでの感情状態を持たないので、明るく協力的という性格の指示がそのまま応答に出るためです。affectusあり（実線）は、低いまま推移しました。叱責が続くターン6〜10の平均は、ありが−0.60、なしが−0.22です。悲しみが積み上がった状態が、応答の言葉に反映されたと考えられます。謝罪後のターン12〜20では、ターンごとの感情スコアの変動幅もありのほうが小さく、フレンドリーで0.24対0.34、天邪鬼で0.37対0.52でした。図では、実線の上下の振れが小さいことに対応します。
+差が出たのは責められている前半です。affectusなし（破線）のフレンドリーは責められている最中でも感情スコアが大きくプラスに振れるターンがあります（7ターン目付近）。affectusなしのエージェントは前のターンまでの感情状態を持たないので、明るく協力的という性格の指示がそのまま応答に出るためです。affectusあり（実線）は低いまま推移しました。叱責が続くターン6〜10の平均はありが−0.60、なしが−0.22です。悲しみが積み上がった状態が、応答の言葉に反映されたと考えられます。謝罪後のターン12〜20ではターンごとの感情スコアの変動幅もありのほうが小さく、フレンドリーで0.24対0.34、天邪鬼で0.37対0.52でした。図では実線の上下の振れが小さいことに対応します。
 
-一方、称賛から立腹へ向かう台本では、ありとなしの感情スコアにはっきりした差は出ませんでした。11ターン目以降は叱責が続く展開になっており、どの構成でも応答がその展開に沿ったためです。出来事の強い台本では、応答の感情スコアはほぼ台本の展開で決まります。
+一方で称賛から立腹へ向かう台本では、ありとなしの感情スコアにはっきりした差は出ませんでした。11ターン目以降は叱責が続く展開になっており、どの構成でも応答がその展開に沿ったためです。出来事の強い台本では応答の感情スコアはほぼ台本の展開で決まります。
 
-最後に3つ目の目的である、性格による違いです。和解の台本を天邪鬼に読ませると、動く軸が変わりました。責められている前半、フレンドリーは嫌悪と怒りを上げませんでしたが、天邪鬼では悲しみ（0.4）に加えて嫌悪（0.28）と怒り（0.18）も上がっています。どちらも、フレンドリーでは3回とも20ターンを通じて0だった軸です。数値を保持する規則は両者で同じなので、この差は、申告するLLMが性格をふまえて出来事を違うように評価した結果です。
+最後に3つ目の目的である性格による違いです。和解の台本を天邪鬼に読ませると、動く軸が変わりました。責められている前半、フレンドリーは嫌悪と怒りを上げませんでしたが、天邪鬼では悲しみ（0.4）に加えて嫌悪（0.28）と怒り（0.18）も上がっています。どちらも、フレンドリーでは3回とも20ターンを通じて0だった軸です。数値を保持する規則は両者で同じなので、この差は申告するLLMが性格をふまえて出来事を違うように評価した結果です。
 
-また、天邪鬼の申告は全体に小さめでした（受容の最大値は0.43）。性格の演技に評価が引っ張られたと考えられ、自己申告方式に特有の現象です。ただし、これを性格に沿った評価と見るか、演技による偏りと見るかは、この実験だけでは判断できません。
+また天邪鬼の申告は全体に小さめでした（受容の最大値は0.43）。性格の演技に評価が引っ張られたと考えられ、自己申告方式に特有の現象です。ただしこれを性格に沿った評価と見るか、演技による偏りと見るかはこの実験だけでは判断できません。
 
-この検証には次の限界があります。反復は3回で、統計的な検定はしていません。台本は2本だけで、感情スコアはポジティブとネガティブの1軸なので、言葉の細かいニュアンスは測れません。Temperatureは既定値のままで、ターンの間隔が秒単位のため、時間経過による減衰もほぼ働いていません。ここで言えるのは、この2本の台本ではこう見えた、というところまでです。
+この検証には次の限界があります。反復は3回で、統計的な検定はしていません。台本は2本だけで、感情スコアはポジティブとネガティブの1軸なので、言葉の細かいニュアンスは測れません。Temperatureは既定値のままで、ターンの間隔が秒単位のため、時間経過による減衰もほぼ働いていません。ここで言えるのは、この2本の台本ではこう見えたというところまでです。
 
-3つの目的に対する結果をまとめます。1つ目の、感情状態が出来事で変化し、持続し、転換することは確認できました。3つ目の、性格によって動く軸が変わることも確認できました。2つ目の応答への反映は、和解の台本では差が出ましたが、称賛から立腹へ向かう台本では台本の展開による影響のほうが大きく、差は見えませんでした。
+3つの目的に対する結果をまとめます。1つ目の目的である感情状態の変化・持続・転換は確認できました。3つ目の目的である性格による違いも、動く軸の違いとして確認できました。2つ目の応答への反映は和解の台本では差が出ましたが、称賛から立腹へ向かう台本では台本の展開による影響のほうが大きく、差は見えませんでした。
 
 ## カテゴリーパラメーター型で得たものと足りないもの <!-- 未レビュー -->
 
-プルチックの感情の輪を使って得られた利点は、設計の判断が少なくて済むことです。軸の数、軸の名前、軸同士の関係といった外部状態の設計項目の多くが、理論の側で決まっています。第2章で「理論がそのまま設計として利用できる」と書いたのは、この性質のことです。実際に8つの軸は、出来事に応じて変化し、会話の間持続し、謝罪をきっかけに転換しました。同じ設計と規則のまま、性格によって動く軸が変わることも確認できました。数値の保持を感情エンジンに、解釈をLLMに分担させる第3章の設計が、そのまま成り立っています。
+プルチックの感情の輪を使って得られた利点は、設計の判断が少なくて済むことです。軸の数、軸の名前、軸同士の関係といった外部状態の設計項目の多くが、理論の側で決まっています。第2章で「理論がそのまま設計として利用できる」と書いたのは、この性質のことです。実際に8つの軸は出来事に応じて変化し、会話の間持続し、謝罪をきっかけに転換しました。同じ設計と規則のまま、性格によって動く軸が変わることも確認できました。数値の保持を感情エンジンに、解釈をLLMに分担させる第3章の設計が、そのまま成り立っています。
 
-足りない点は、感情の粒度と名前が8つに固定されていることです。対極の感情が両立した状態は、対極の2つの軸が同時に高くなる形で記録できます。しかし、その状態に当てはまる名前や、懐かしさのように8つの軸の組み合わせでは表しにくい感情は、外部状態に記録する場所がありません。毎回LLMの解釈で補うことになります。名前が8つに固定されていることは設計を簡単にした一方で、表現できる粒度の上限にもなっています。
+足りない点は感情の粒度と名前が8つに固定されていることです。対極の感情が両立した状態は対極の2つの軸が同時に高くなる形で記録できます。しかしその状態に当てはまる名前や、懐かしさのように8つの軸の組み合わせでは表しにくい感情は、外部状態に記録する場所がありません。毎回LLMの解釈で補うことになります。名前が8つに固定されていることは設計を簡単にした一方で、表現できる粒度の上限にもなっています。
 
-次章では、感情の名前を外部状態に持たせず、より少ない軸だけで感情を表す次元パラメーター型を扱います。
+次章では感情の名前を外部状態に持たせず、より少ない軸だけで感情を表す次元パラメーター型を扱います。
 
 ## 参考文献
 

diff --git a/.cadenza/state.md b/.cadenza/state.md
@@ -51,7 +51,7 @@
 ### Book 形態・運用（Phase 1 時点の確定事項）
 - 形態: Zenn book。原稿は work/workshop/zenn の books/ 配下で管理し、published: false のまま執筆。公開形態（無料/有料）は完成が見えてから決める。将来的な技術書典等での利用も視野。
 - 規模: 6〜8章・3〜5万字（中規模）。→ その後 ch9（まとめ）を追加して9章構成に（オーナー指示 2026-08-18）。字数は ch7 時点で約6.1万字・完成見込み7万字級
-- 文体: zenn リポジトリの docs/superpowers/writing-style-guide.md に従う。加えてオーナーが AI っぽいと指摘した語・言い回しは会話・原稿とも使用しない。現在のリストは「地図」「刺さる」「地平」「〜として読める」「〜を翻訳する」「割る」（2026-08-25 拡大: 役割に限らず比喩用法全般を禁止。「割り切り」も言い換える。「割り当てる」「割り算」等の通常用法は可）「決め球」「（サイクルを）回す」「（〜に）効く」「（情報を）担ぐ」「（軸が）張る」（2026-08-10 追加。「軸が構成する」等に言い換える）「（外部状態の）器」（2026-08-10 追加。意味もなく暗喩を使わない一般則とともに writing-style-guide.md に明記。正確な語＝外部状態・設定・設計などで書く）「ラン」（2026-08-18 追加。「3回の実行」「3回の平均」「3回とも」で書く。図版ラベルの「run1」も「1回目」とする）「白眉」「系譜」（2026-08-18 追加。評論調の語。labelの列は「並び」「推移」で書く）「浅く沈む」等の量の婉曲表現（2026-08-18 追加。何の量がどう違うかを直接書く一般則とともに明記）「持ち歌」「釘刺し」（2026-08-25 追加。口語の比喩。実測labelの引用は除く）「（解釈の意味の）読み」「〜と読める」（2026-08-25 追加。「この解釈には」「〜を示す」で書く。図の読み方・台本を読む・読み替える等の文字どおりの用法は可）「平叙」（2026-08-26 追加。言語学の術語。「言い切りの文」「普通の文」で書く）「（状態が言葉に）透ける」「（応答に）滲む」（2026-08-27 追加。状態と応答の関係は「反映される」「現れる」で書く。ch4〜ch7 の7箇所を修正済み）「（感情・軸が）立つ」「立ち上がる」（2026-09-22 追加。値が生じる・高くなる意味の比喩。「生じる」「上がる」「現れる」「値が入る」で書き、概念の生成は「構成する」。「主張を立てる」「見込みを立てる」「苛立ち」の通常用法は可。ch4〜ch7 の23箇所を修正済み）。「（量・相当の意味の）ぶん」（2026-10-04 追加。「20ターン分」「注入する分」のように「分」と書く。「90分が経過した分」のように時間の「分」と並んで紛らわしい箇所は「ため」等に言い換える）「この本」（2026-10-04 追加。「本書」と書く）。**短い句・見出しに律動目的の読点を挟まない・読点を多用しない**（2026-08-25 オーナー指摘。「4つの問いへの、○○の答え」型と「実測、〜か」型を全章の見出しから除去済み。**見出しの読点は並立の対句「得たもの、足りないもの」「覚えておいて、思い出させる」も含め全面禁止**で、2026-08-25 に読点入り見出し8つをすべて改題。本文にも適用し、名詞句の内部に入る「〜の、」型・名詞並立の「〜と、」型・主語直後の律動的な読点を ch04〜ch07 から32件除去（条件の「〜すると、」・連用中止・列挙・あいまい回避に必要な読点は残す）。本文中の列挙の読点は可。ch03 の読点入り見出しは 2026-08-26 に解消済み（節3 はオーナー改題、節5「状態はいつ誰が更新するのか」・節7「パラダイムで変わるものと変わらないもの」に改題）。**指摘され次第このリストに追加し、機械チェックの正規表現にも反映する**。 **yomiyasu スキル（nanaism/yomiyasu v1.0.5、~/.claude/skills/yomiyasu）を未レビュー節の推敲に併用する（オーナー指示 2026-10-04）**。適用順位は本書のルール（本リストと改稿傾向）が上。yomiyasu の「同一文末ます3連続」警告はオーナーの文体に反するため追わない。原語併記の括弧は残す。対象は比喩動詞（潰れる・畳まれる・写る・跳ね上がる・解ける・育つ・堆積・満杯・養う・宿命など）、外部状態や決定論を人のように書く擬人化、問いかけで節を進める修辞、体言止め、「〜のです」の念押し。手順: lint で候補→手で書き換え→yomiyasu_diff.py で元にない語・消えた語を点検。また会話での報告にも同リストを適用し、飾りの太字見出しを置かない。実測の報告は「エンジンが正常に動いた」類ではなく、性格別に観測された動きの相違と、他モデルと比べた特徴を主体にする（2026-08-18 オーナー指摘）。
+- 文体: zenn リポジトリの docs/superpowers/writing-style-guide.md に従う。加えてオーナーが AI っぽいと指摘した語・言い回しは会話・原稿とも使用しない。現在のリストは「地図」「刺さる」「地平」「〜として読める」「〜を翻訳する」「割る」（2026-08-25 拡大: 役割に限らず比喩用法全般を禁止。「割り切り」も言い換える。「割り当てる」「割り算」等の通常用法は可）「決め球」「（サイクルを）回す」「（〜に）効く」「（情報を）担ぐ」「（軸が）張る」（2026-08-10 追加。「軸が構成する」等に言い換える）「（外部状態の）器」（2026-08-10 追加。意味もなく暗喩を使わない一般則とともに writing-style-guide.md に明記。正確な語＝外部状態・設定・設計などで書く）「ラン」（2026-08-18 追加。「3回の実行」「3回の平均」「3回とも」で書く。図版ラベルの「run1」も「1回目」とする）「白眉」「系譜」（2026-08-18 追加。評論調の語。labelの列は「並び」「推移」で書く）「浅く沈む」等の量の婉曲表現（2026-08-18 追加。何の量がどう違うかを直接書く一般則とともに明記）「持ち歌」「釘刺し」（2026-08-25 追加。口語の比喩。実測labelの引用は除く）「（解釈の意味の）読み」「〜と読める」（2026-08-25 追加。「この解釈には」「〜を示す」で書く。図の読み方・台本を読む・読み替える等の文字どおりの用法は可）「平叙」（2026-08-26 追加。言語学の術語。「言い切りの文」「普通の文」で書く）「（状態が言葉に）透ける」「（応答に）滲む」（2026-08-27 追加。状態と応答の関係は「反映される」「現れる」で書く。ch4〜ch7 の7箇所を修正済み）「（感情・軸が）立つ」「立ち上がる」（2026-09-22 追加。値が生じる・高くなる意味の比喩。「生じる」「上がる」「現れる」「値が入る」で書き、概念の生成は「構成する」。「主張を立てる」「見込みを立てる」「苛立ち」の通常用法は可。ch4〜ch7 の23箇所を修正済み）。「（量・相当の意味の）ぶん」（2026-10-04 追加。「20ターン分」「注入する分」のように「分」と書く。「90分が経過した分」のように時間の「分」と並んで紛らわしい箇所は「ため」等に言い換える）「この本」（2026-10-04 追加。「本書」と書く）。**短い句・見出しに律動目的の読点を挟まない・読点を多用しない**（2026-08-25 オーナー指摘。「4つの問いへの、○○の答え」型と「実測、〜か」型を全章の見出しから除去済み。**見出しの読点は並立の対句「得たもの、足りないもの」「覚えておいて、思い出させる」も含め全面禁止**で、2026-08-25 に読点入り見出し8つをすべて改題。本文にも適用し、名詞句の内部に入る「〜の、」型・名詞並立の「〜と、」型・主語直後の律動的な読点を ch04〜ch07 から32件除去（条件の「〜すると、」・連用中止・列挙・あいまい回避に必要な読点は残す）。本文中の列挙の読点は可。ch03 の読点入り見出しは 2026-08-26 に解消済み（節3 はオーナー改題、節5「状態はいつ誰が更新するのか」・節7「パラダイムで変わるものと変わらないもの」に改題）。**指摘され次第このリストに追加し、機械チェックの正規表現にも反映する**。 **読点は本当に必要な場所にだけ打つ（オーナー指示 2026-10-04・常に厳守）**: 主題の「は」「では」「には」の直後、文頭の接続詞（ただし・また・一方・つまり・たとえば・そのため）の後、短い修飾句の後には打たない。打つのは、長い文で節が切り替わる位置（連用中止や「〜が、」の逆接など）と、読み違いを防ぐ位置だけ。オーナーの改稿例:「ここまでの実装を対照実験で検証します。」「1つ目は外部に置いた感情の状態が会話の出来事で変化してターンを跨いで持続し、会話の〜」。 **yomiyasu スキル（nanaism/yomiyasu v1.0.5、~/.claude/skills/yomiyasu）を未レビュー節の推敲に併用する（オーナー指示 2026-10-04）**。適用順位は本書のルール（本リストと改稿傾向）が上。yomiyasu の「同一文末ます3連続」警告はオーナーの文体に反するため追わない。原語併記の括弧は残す。対象は比喩動詞（潰れる・畳まれる・写る・跳ね上がる・解ける・育つ・堆積・満杯・養う・宿命など）、外部状態や決定論を人のように書く擬人化、問いかけで節を進める修辞、体言止め、「〜のです」の念押し。手順: lint で候補→手で書き換え→yomiyasu_diff.py で元にない語・消えた語を点検。また会話での報告にも同リストを適用し、飾りの太字見出しを置かない。実測の報告は「エンジンが正常に動いた」類ではなく、性格別に観測された動きの相違と、他モデルと比べた特徴を主体にする（2026-08-18 オーナー指摘）。
 - **オーナー改稿から抽出した文体傾向（2026-08-26・ch3節3の全面改稿の diff から。以降の執筆・修正に適用）**:
   1. 問いを立てて後から答える修辞構造より、「〜という記録／規則を持つことで〜を可能にします」という機能と目的の直接記述を好む
   2. 欠如シナリオの反復（「これがなければ〜になる」を項目ごとに繰り返す型）は削り、簡潔な機能説明に一本化する

diff --git a/.cadenza/chapters/ch04.md b/.cadenza/chapters/ch04.md
@@ -116,3 +116,14 @@
 - 全章置換: この本→本書 5箇所（ch4・ch6・ch7）、ぶん→分 3箇所（ch4・ch6）。
 - 途中で見えた「（以下、極性"スコアの方がわかりやすい"）」のコメントは、チェック時点のファイルから消えていたため対応していない（極性のまま）。
 - 「会話のポジネガの転換点」はオーナーの語として残した。
+
+### 2026-10-05 yomiyasu 厳重適用（ch4 検証結果以降、ch5〜ch7 全節）と読点の削減
+
+オーナー指摘「まだAIっぽくて気持ち悪い。ch5 冒頭の『前章の終わりに〜を示しました。この章はその方向を実際に進みます』とか」に対応し、未レビューの節を文単位で書き直した。
+- メタな接続文・予告・言葉遊びの締めを全廃: 章冒頭を「本章では第2章で〜と呼んだ系統の代表モデルとして〜を扱います」＋前章との差分の説明に統一（ch5〜ch7）。「この縮小で捨てたのは名前だけではありませんでした」「先に言うと」「理論が『決めない』と決めています」「あるのは材料と歴史です」「この表は最終回にして」等を削除。
+- 擬人化した見出しを改題: 「外部状態が『なぜ』を覚える」→「感情が生じた理由の記録」、「カテゴリーが状態から歴史へ移る」→「感情の名前を経験として記録する」。
+- 検証結果の各段落を「まず1つ目の目的である〜について見ます」「次に2つ目の目的である〜です」「最後に3つ目の目的である〜です」で始める形に統一。章末の次章予告は1文に。
+- 「極性」→「感情スコア」（オーナー指示）。本文全章と図のラベル（ch04-plots.py の縦軸、ch05-plots.py の凡例と注記）を変更し、図3枚を再生成。データはリグの results ではなくアーカイブ（_archive/plutchik-direct-20260810、_archive/russell-direct-20260810）を指定。ラベルを変えていない8軸の図は再生成後もバイト単位で同一で、データの取り違えがないことを確認。
+- 温度は「Temperature」と表記（オーナー指示）。
+- 読点の削減（オーナー指示・state.md とメモリーに常時ルールとして登録）: 主題の「は」直後、文頭の接続詞の後、短い修飾の後を削除し、機械削減で不自然になった箇所（「一方称賛から」等）は「一方で」に直し、長い主題で区切りが要る箇所は戻した。読点の数は ch4 検証結果以降 76→46、ch5 210→約140、ch6 264→約180、ch7 149→約120。
+- 点検: NG語彙ゼロ（ch7 の「寄せた」を「任せた」に）、孤立脚注ゼロ。yomiyasu の残る指摘は「ます」の連続と意味を担う否定のみ。
